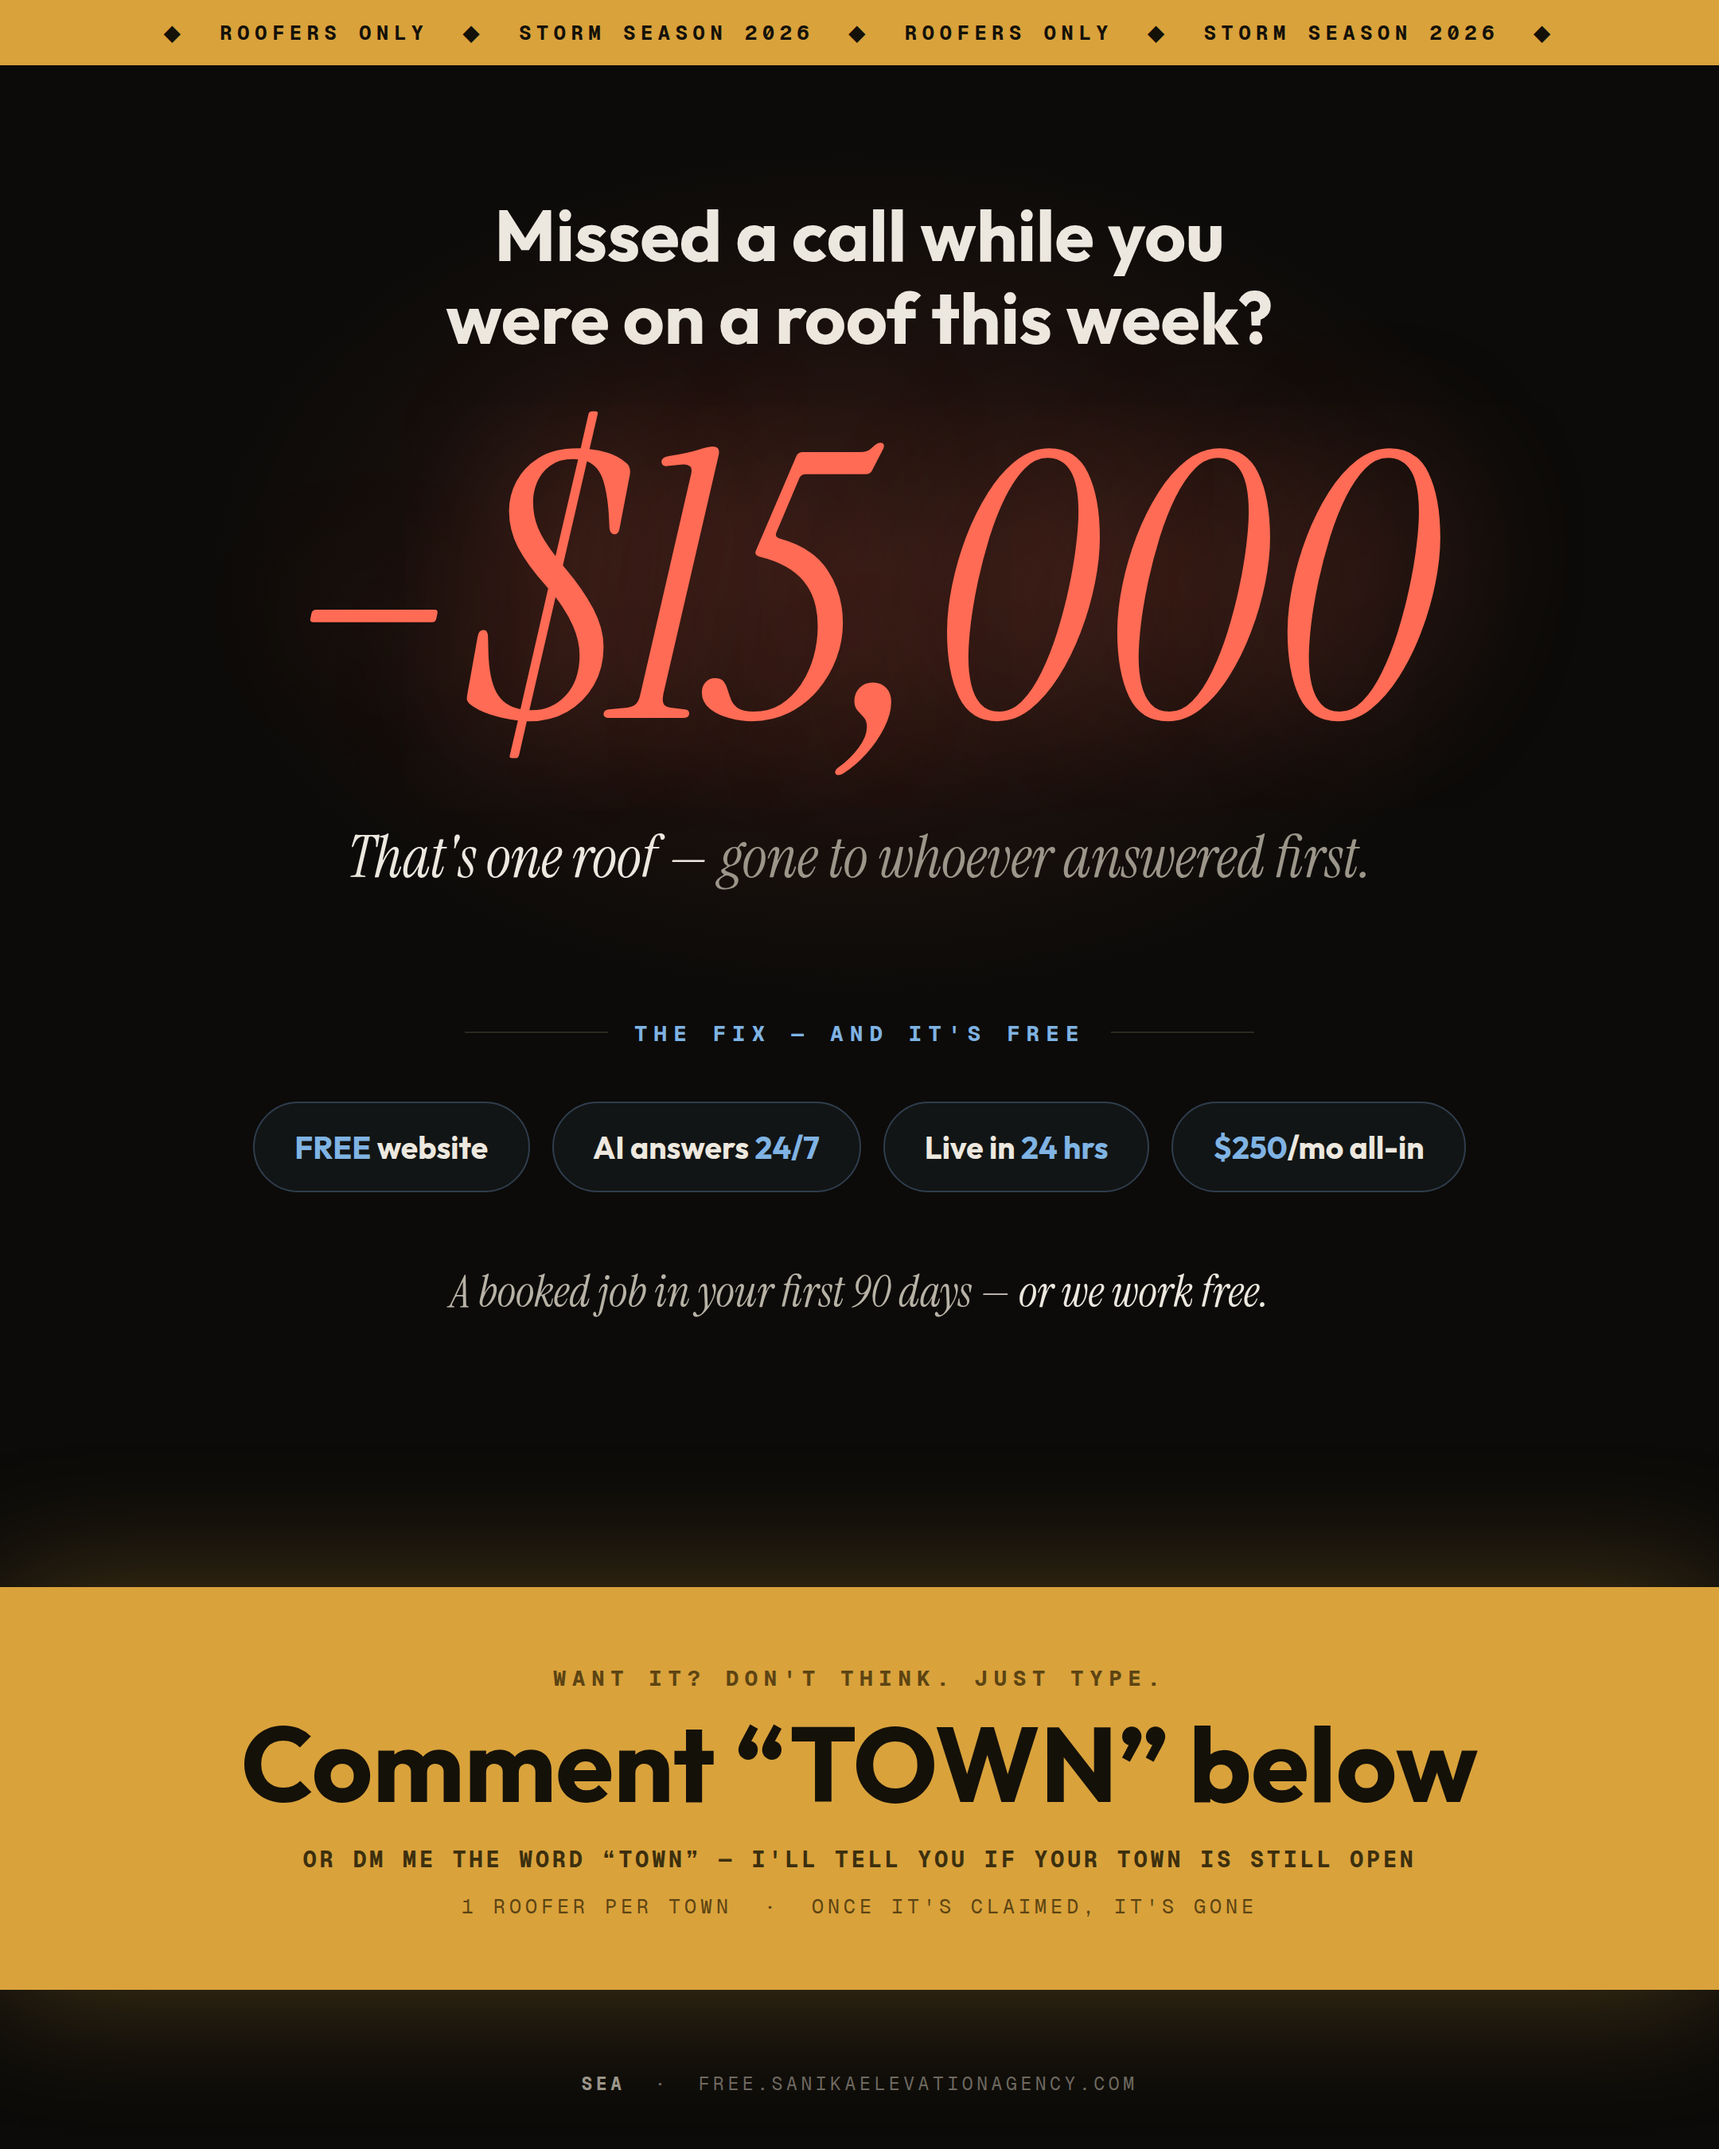
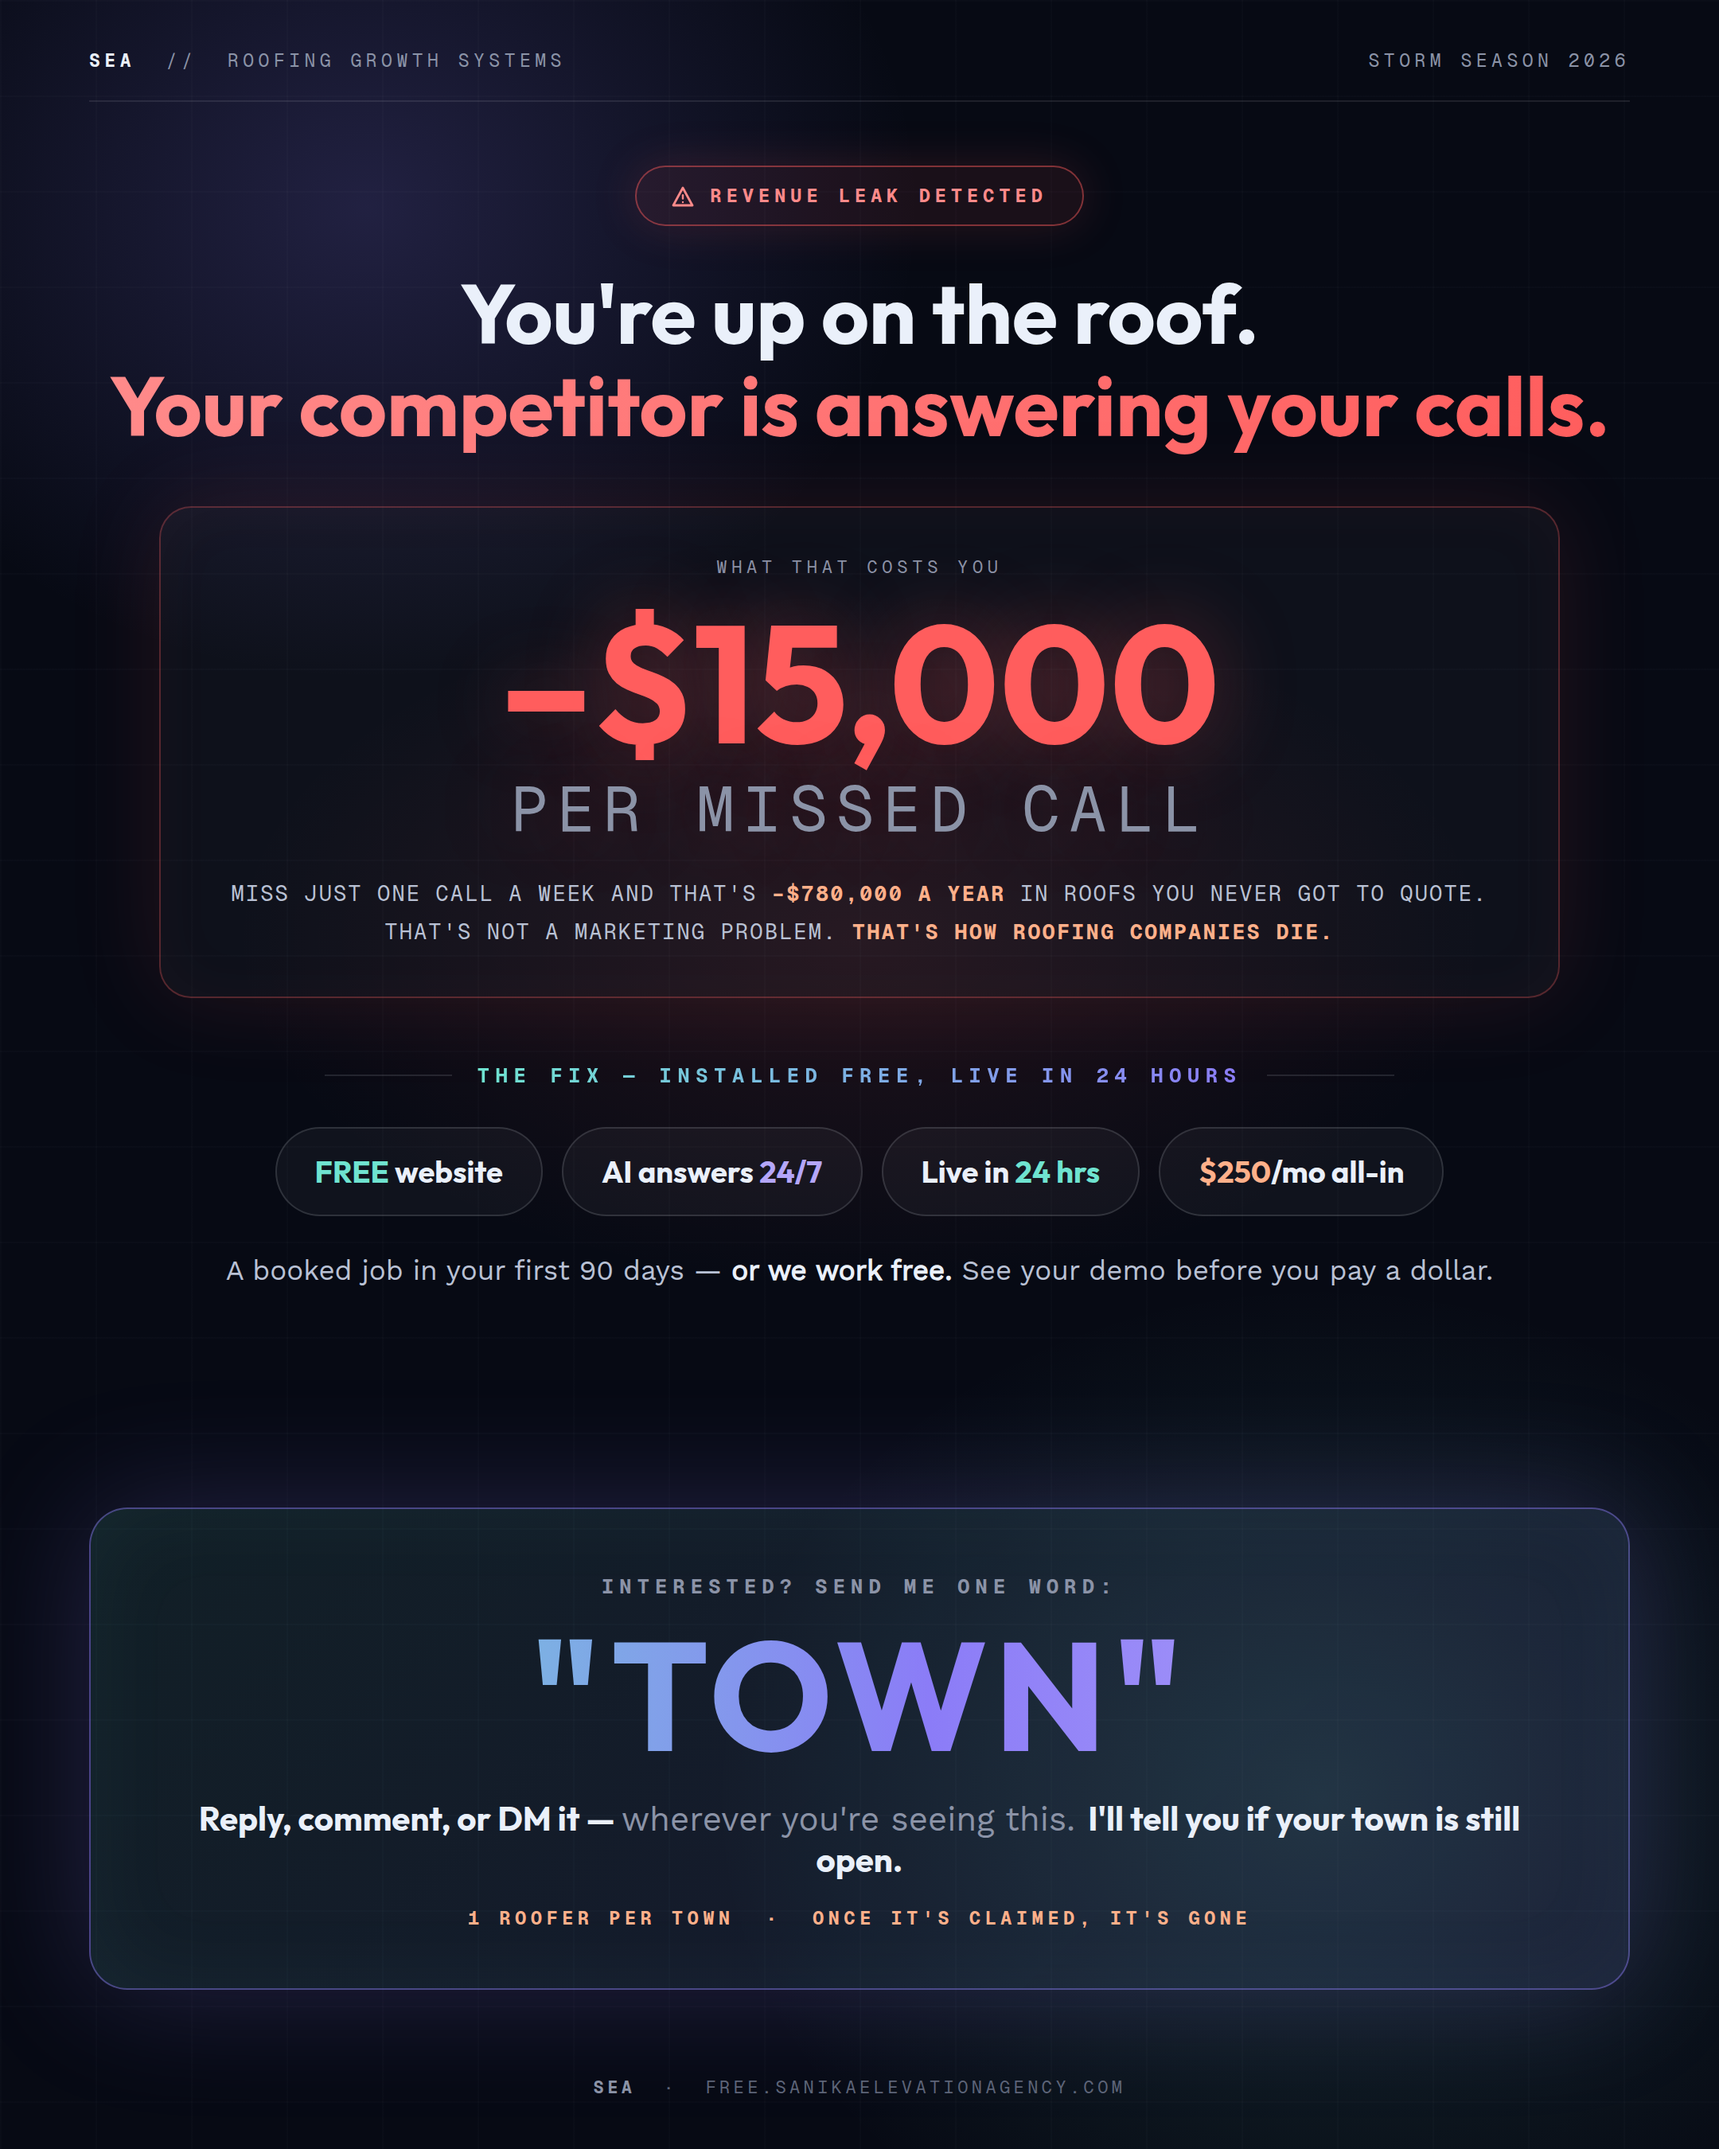
Redesign roofer ad: futuristic pastel-neon v2 with universal TOWN CTA
Deep-navy aurora background, gradient text, glass cards. Harder loss
framing (-$15,000 per missed call, -$780,000/yr, 'how roofing
companies die'). CTA reworked to 'send one word: TOWN — reply, comment
or DM, wherever you're seeing this' so the image works when sent into
group chats, not just posted.

Claude-Session: https://claude.ai/code/session_01EZPcJBo73zQ5N3Fx3m3zJb

diff --git a/brochure/sea-roofer-ad-v2.html b/brochure/sea-roofer-ad-v2.html
@@ -1,0 +1,124 @@
+<!DOCTYPE html>
+<html>
+<head>
+<meta charset="utf-8">
+<style>
+  @font-face { font-family:'Outfit'; src:url('file:///root/.claude/skills/canvas-design/canvas-fonts/Outfit-Bold.ttf'); font-weight:700; }
+  @font-face { font-family:'Outfit'; src:url('file:///root/.claude/skills/canvas-design/canvas-fonts/Outfit-Regular.ttf'); font-weight:400; }
+  @font-face { font-family:'WorkSans'; src:url('file:///root/.claude/skills/canvas-design/canvas-fonts/WorkSans-Regular.ttf'); font-weight:400; }
+  @font-face { font-family:'GeistMono'; src:url('file:///root/.claude/skills/canvas-design/canvas-fonts/GeistMono-Regular.ttf'); font-weight:400; }
+  @font-face { font-family:'GeistMono'; src:url('file:///root/.claude/skills/canvas-design/canvas-fonts/GeistMono-Bold.ttf'); font-weight:700; }
+
+  * { margin:0; padding:0; box-sizing:border-box; -webkit-font-smoothing:antialiased; }
+  body { font-family:'WorkSans'; color:#EAF0FA; background:#070A14; }
+  .page { width:1080px; height:1350px; background:#070A14; position:relative; overflow:hidden; text-align:center; }
+
+  /* aurora background */
+  .aur1 { position:absolute; top:-220px; left:-180px; width:820px; height:700px;
+    background:radial-gradient(ellipse at center, rgba(139,124,247,0.20) 0%, rgba(139,124,247,0) 60%); }
+  .aur2 { position:absolute; bottom:-160px; right:-200px; width:900px; height:760px;
+    background:radial-gradient(ellipse at center, rgba(111,227,208,0.14) 0%, rgba(111,227,208,0) 60%); }
+  .aur3 { position:absolute; top:340px; left:50%; transform:translateX(-50%); width:900px; height:500px;
+    background:radial-gradient(ellipse at center, rgba(255,93,93,0.10) 0%, rgba(255,93,93,0) 62%); }
+  .grid { position:absolute; inset:0; opacity:0.5;
+    background-image:linear-gradient(rgba(234,240,250,0.035) 1px, transparent 1px), linear-gradient(90deg, rgba(234,240,250,0.035) 1px, transparent 1px);
+    background-size:60px 60px; }
+
+  .hud { position:relative; display:flex; justify-content:space-between; align-items:center; padding:30px 56px 0; }
+  .hud .l, .hud .r { font-family:'GeistMono'; font-size:11.5px; letter-spacing:0.24em; color:#8b93a7; }
+  .hud .l b { color:#EAF0FA; font-weight:700; }
+  .hudline { position:relative; margin:18px 56px 0; border-top:1px solid rgba(234,240,250,0.10); }
+
+  .alert { position:relative; display:inline-flex; align-items:center; gap:10px; margin-top:40px;
+    border:1px solid rgba(255,93,93,0.45); background:rgba(255,93,93,0.08); border-radius:999px; padding:10px 22px;
+    font-family:'GeistMono'; font-weight:700; font-size:12px; letter-spacing:0.24em; color:#FF8A8A;
+    box-shadow:0 0 30px rgba(255,93,93,0.15); }
+  .alert svg { flex-shrink:0; }
+
+  .hook { position:relative; font-family:'Outfit'; font-weight:700; font-size:52px; line-height:1.12; margin-top:26px; }
+  .hook .grad { background:linear-gradient(90deg,#FF8A8A 0%,#FF5D5D 100%); -webkit-background-clip:text; background-clip:text; color:transparent; }
+
+  /* loss card */
+  .loss { position:relative; margin:34px auto 0; width:880px; border-radius:20px;
+    border:1px solid rgba(255,93,93,0.30); background:rgba(255,255,255,0.03);
+    box-shadow:0 0 60px rgba(255,93,93,0.12), inset 0 0 40px rgba(255,93,93,0.04); padding:30px 40px 28px; }
+  .loss .lab { font-family:'GeistMono'; font-size:11px; letter-spacing:0.26em; color:#8b93a7; }
+  .loss .row { display:flex; align-items:center; justify-content:center; gap:34px; margin-top:14px; }
+  .loss .big { font-family:'Outfit'; font-weight:700; font-size:104px; line-height:1; color:#FF5D5D; text-shadow:0 0 50px rgba(255,93,93,0.35); }
+  .loss .big span { font-size:0.38em; color:#8b93a7; font-family:'GeistMono'; font-weight:400; letter-spacing:0.14em; display:block; margin-top:8px; }
+  .loss .math { font-family:'GeistMono'; font-size:13.5px; letter-spacing:0.08em; color:#B9C1D4; margin-top:20px; line-height:1.8; }
+  .loss .math b { color:#FFB08A; font-weight:700; }
+
+  /* fix */
+  .fixlabel { position:relative; display:flex; align-items:center; justify-content:center; gap:16px; margin-top:40px; }
+  .fixlabel .rule { width:80px; border-top:1px solid rgba(234,240,250,0.12); }
+  .fixlabel .t { font-family:'GeistMono'; font-weight:700; font-size:13px; letter-spacing:0.28em;
+    background:linear-gradient(90deg,#6FE3D0,#8B7CF7); -webkit-background-clip:text; background-clip:text; color:transparent; }
+  .chips { position:relative; display:flex; justify-content:center; gap:12px; margin-top:24px; }
+  .chip { border:1px solid rgba(234,240,250,0.14); background:rgba(255,255,255,0.04); border-radius:999px; padding:15px 24px;
+    font-family:'Outfit'; font-weight:700; font-size:19px; color:#EAF0FA; }
+  .chip .mint { color:#6FE3D0; } .chip .lav { color:#B4A6F9; } .chip .peach { color:#FFB08A; }
+  .promise { position:relative; font-family:'WorkSans'; font-size:17.5px; color:#B9C1D4; margin-top:24px; }
+  .promise b { color:#EAF0FA; }
+
+  /* CTA */
+  .cta { position:absolute; left:56px; right:56px; bottom:100px; border-radius:24px; padding:40px 40px 36px;
+    background:linear-gradient(135deg, rgba(111,227,208,0.10), rgba(139,124,247,0.12));
+    border:1.5px solid rgba(139,124,247,0.45);
+    box-shadow:0 0 80px rgba(139,124,247,0.22), inset 0 0 60px rgba(111,227,208,0.05); }
+  .cta .say { font-family:'GeistMono'; font-weight:700; font-size:13px; letter-spacing:0.26em; color:#8b93a7; }
+  .cta .word { font-family:'Outfit'; font-weight:700; font-size:96px; line-height:1; margin-top:12px;
+    background:linear-gradient(90deg,#6FE3D0 0%,#8B7CF7 55%,#B4A6F9 100%); -webkit-background-clip:text; background-clip:text; color:transparent;
+    letter-spacing:0.04em; }
+  .cta .how { font-family:'Outfit'; font-weight:700; font-size:21px; color:#EAF0FA; margin-top:16px; }
+  .cta .how span { color:#8b93a7; font-family:'WorkSans'; font-weight:400; }
+  .cta .scar { font-family:'GeistMono'; font-weight:700; font-size:12px; letter-spacing:0.22em; color:#FFB08A; margin-top:16px; }
+
+  .foot { position:absolute; bottom:0; left:0; right:0; padding:32px 0;
+    font-family:'GeistMono'; font-size:11px; letter-spacing:0.2em; color:#5d6478; }
+  .foot b { color:#8b93a7; font-weight:700; }
+</style>
+</head>
+<body>
+<div class="page">
+  <div class="aur1"></div><div class="aur2"></div><div class="aur3"></div><div class="grid"></div>
+
+  <div class="hud"><div class="l"><b>SEA</b>&nbsp;&nbsp;//&nbsp;&nbsp;ROOFING GROWTH SYSTEMS</div><div class="r">STORM SEASON 2026</div></div>
+  <div class="hudline"></div>
+
+  <div class="alert">
+    <svg width="14" height="13" viewBox="0 0 14 13" fill="none"><path d="M7 1 L13 12 L1 12 Z" stroke="#FF8A8A" stroke-width="1.4" stroke-linejoin="round"/><rect x="6.4" y="5" width="1.2" height="3.4" rx="0.6" fill="#FF8A8A"/><rect x="6.4" y="9.4" width="1.2" height="1.2" rx="0.6" fill="#FF8A8A"/></svg>
+    REVENUE LEAK DETECTED
+  </div>
+
+  <div class="hook">You're up on the roof.<br><span class="grad">Your competitor is answering your calls.</span></div>
+
+  <div class="loss">
+    <div class="lab">WHAT THAT COSTS YOU</div>
+    <div class="row">
+      <div class="big">&ndash;$15,000<span>PER MISSED CALL</span></div>
+    </div>
+    <div class="math">MISS JUST ONE CALL A WEEK AND THAT'S <b>&ndash;$780,000 A YEAR</b> IN ROOFS YOU NEVER GOT TO QUOTE.<br>THAT'S NOT A MARKETING PROBLEM. <b>THAT'S HOW ROOFING COMPANIES DIE.</b></div>
+  </div>
+
+  <div class="fixlabel"><div class="rule"></div><div class="t">THE FIX — INSTALLED FREE, LIVE IN 24 HOURS</div><div class="rule"></div></div>
+
+  <div class="chips">
+    <div class="chip"><span class="mint">FREE</span> website</div>
+    <div class="chip">AI answers <span class="lav">24/7</span></div>
+    <div class="chip">Live in <span class="mint">24 hrs</span></div>
+    <div class="chip"><span class="peach">$250</span>/mo all-in</div>
+  </div>
+  <div class="promise">A booked job in your first 90 days — <b>or we work free.</b> See your demo before you pay a dollar.</div>
+
+  <div class="cta">
+    <div class="say">INTERESTED? SEND ME ONE WORD:</div>
+    <div class="word">"TOWN"</div>
+    <div class="how">Reply, comment, or DM it — <span>wherever you're seeing this.</span>&nbsp; I'll tell you if your town is still open.</div>
+    <div class="scar">1 ROOFER PER TOWN&nbsp;&nbsp;·&nbsp;&nbsp;ONCE IT'S CLAIMED, IT'S GONE</div>
+  </div>
+
+  <div class="foot"><b>SEA</b>&nbsp;&nbsp;·&nbsp;&nbsp;FREE.SANIKAELEVATIONAGENCY.COM</div>
+</div>
+</body>
+</html>

diff --git a/SEA_Roofing_Leads_Game_Plan.md b/SEA_Roofing_Leads_Game_Plan.md
@@ -253,7 +253,7 @@ The outbound sprint (Part 6) drives every prospect to this site. Fixing #1, #2, 
 
 **Assets:** `brochure/SEA_Offer_Card.png` (1080×1350 image — the one you send in DMs and promo threads; images open instantly in Messenger, PDFs mostly don't get opened) and `brochure/SEA_Offer_OnePager.pdf` (for email follow-ups and serious prospects). Both match the site brand and reuse its proven copy (hero, receipts, Spartan quote, one-per-market rule).
 
-> **UPDATE (July 17, evening):** for the free-website lead magnet (see Part 3 update), the primary asset is **`brochure/SEA_Roofer_Ad.png`** — single loss-framed ad ("–$15,000" missed-call hook, 4 offer chips, comment-"TOWN" CTA). Post caption: *"Free website for roofers, live in 24 hours, AI receptionist answering the calls you miss. $250/mo, one roofer per town. Comment TOWN and I'll tell you if yours is still open."* When someone comments TOWN: reply publicly ("checking your area — sent you a DM") + DM asking their town/company, then send the funnel link. Alternates retained: `SEA_Ad_Poster.png`, `SEA_Brochure_Book.pdf`, `SEA_FreeWebsite_*`. Pricing confirmed $250/mo — update the funnel page's $450/$495 founding-rate copy to match before driving traffic.
+> **UPDATE (July 17, evening):** for the free-website lead magnet (see Part 3 update), the primary asset is **`brochure/SEA_Roofer_Ad.png`** — single loss-framed ad, futuristic dark/pastel-neon v2 ("revenue leak" alert, –$15,000/missed call, –$780,000/yr math, 4 offer chips, universal send-one-word-"TOWN" CTA that works in posts, group chats and DMs). Post caption: *"Free website for roofers, live in 24 hours, AI receptionist answering the calls you miss. $250/mo, one roofer per town. Comment TOWN and I'll tell you if yours is still open."* When someone comments TOWN: reply publicly ("checking your area — sent you a DM") + DM asking their town/company, then send the funnel link. Alternates retained: `SEA_Ad_Poster.png`, `SEA_Brochure_Book.pdf`, `SEA_FreeWebsite_*`. Pricing confirmed $250/mo — update the funnel page's $450/$495 founding-rate copy to match before driving traffic.
 
 ### The #1 rule
 **Never post the brochure in a group's main feed, and never send it as a first message.** Groups ban promo instantly, and Messenger puts image-first messages from strangers into hidden requests. The brochure is a *close* asset: it gets sent after a conversation starts, or posted in designated promo threads. Value in public, offer in private.
